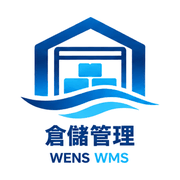
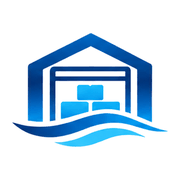
桌面圖示拿掉文字、只留圖案 (#31)
Claude-Session: https://claude.ai/code/session_01YTRkda26qQudcV6P7798ur

diff --git a/m/sw.js b/m/sw.js
@@ -1,7 +1,7 @@
 // Terry WMS 手機版 Service Worker
 // 網路優先：有網路一律拿最新版（避免舊版卡在手機上）；沒網路才用快取，讓畫面還能打開
 // Firebase 資料不經過這裡（由 Firestore SDK 自己處理）
-const CACHE = 'wms-m-v4';   // 換新圖示（2026-09-28 崇文 Logo 系統）
+const CACHE = 'wms-m-v5';   // 桌面圖示拿掉文字（2026-09-28）
 
 self.addEventListener('install', function() { self.skipWaiting(); });
 self.addEventListener('activate', function(event) {
